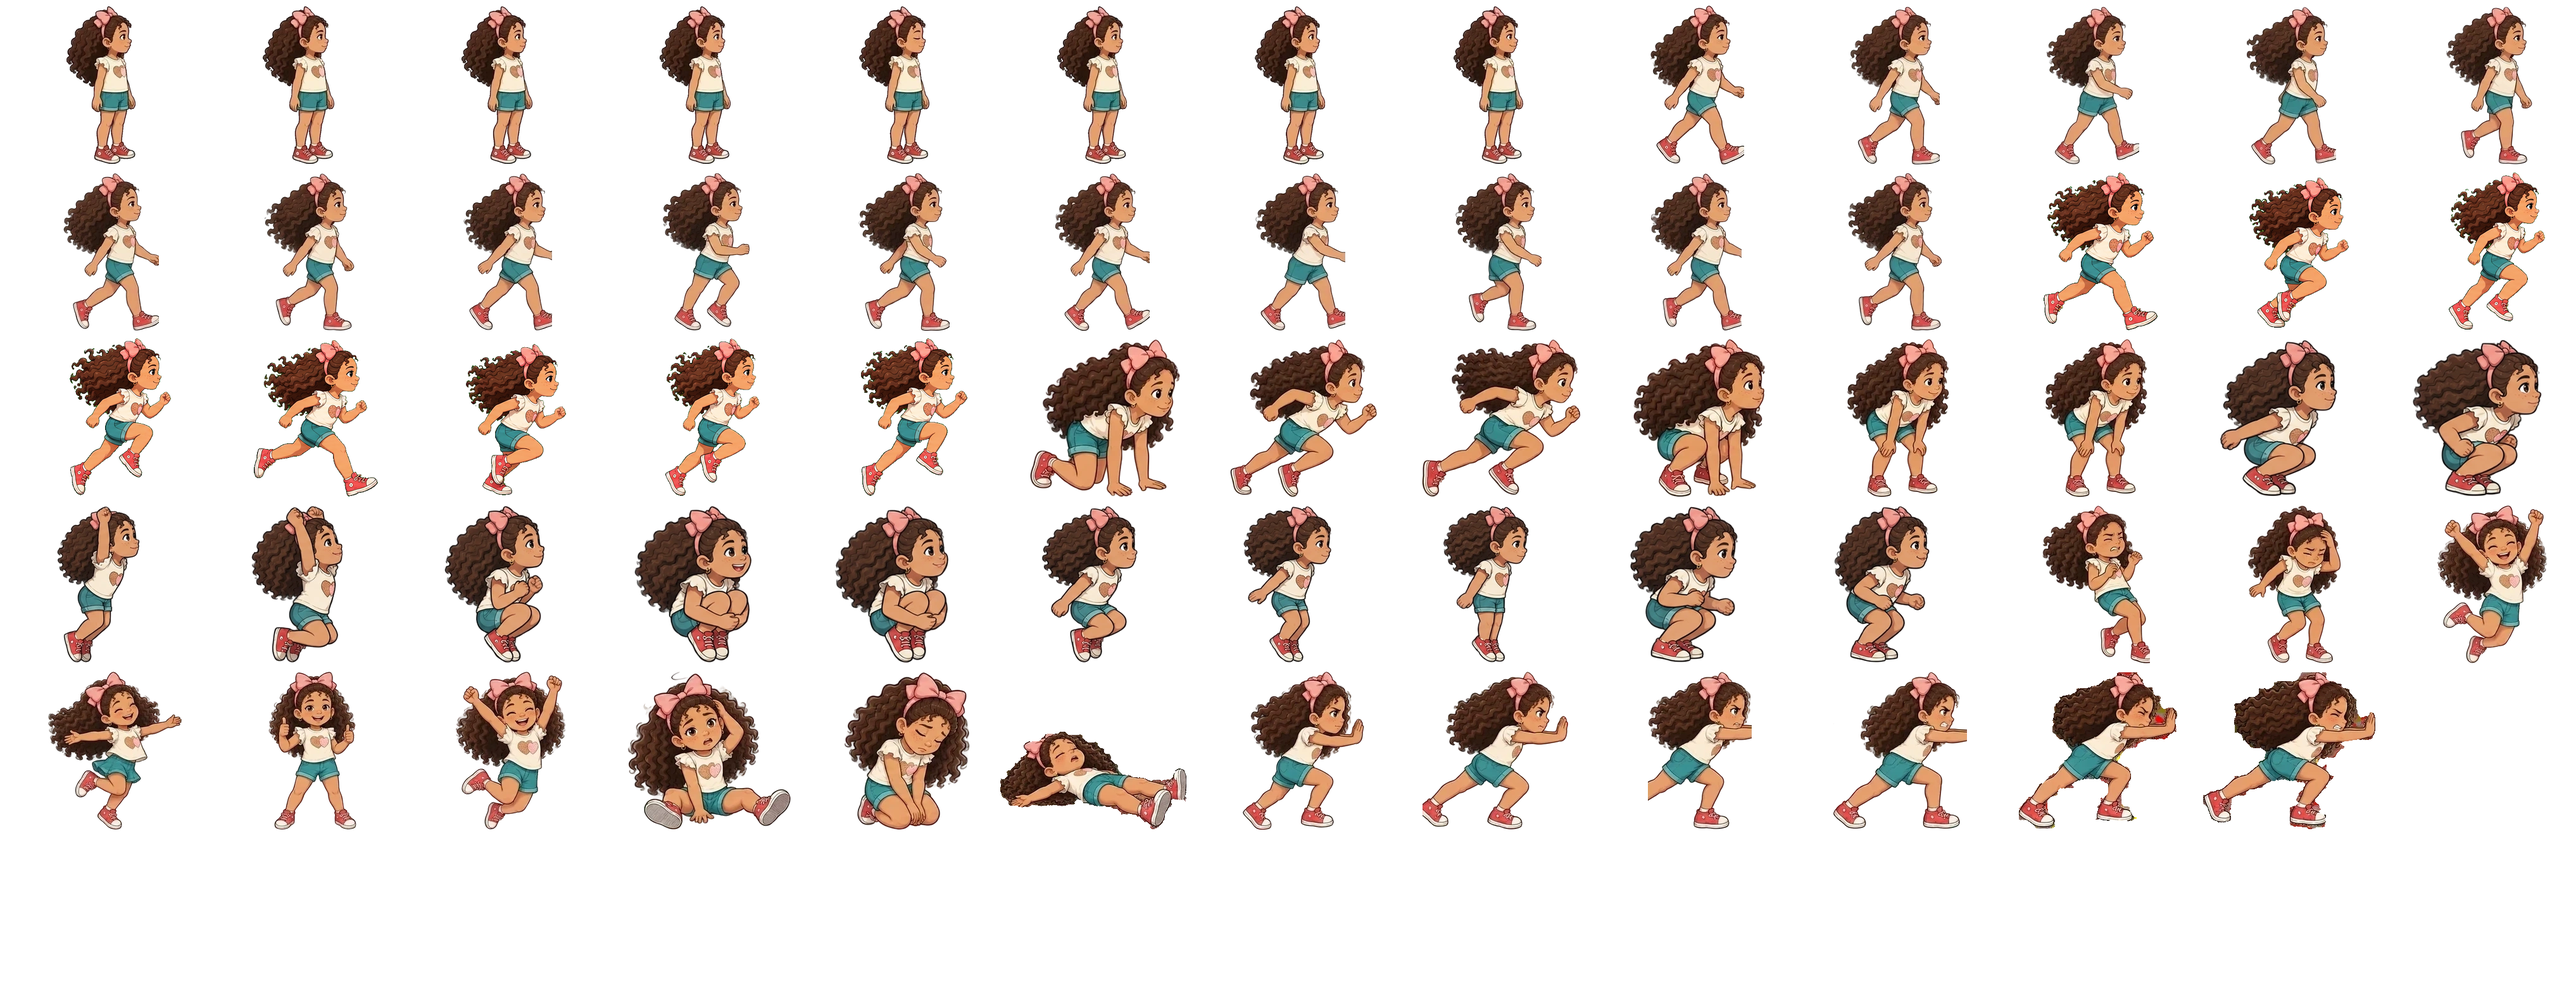
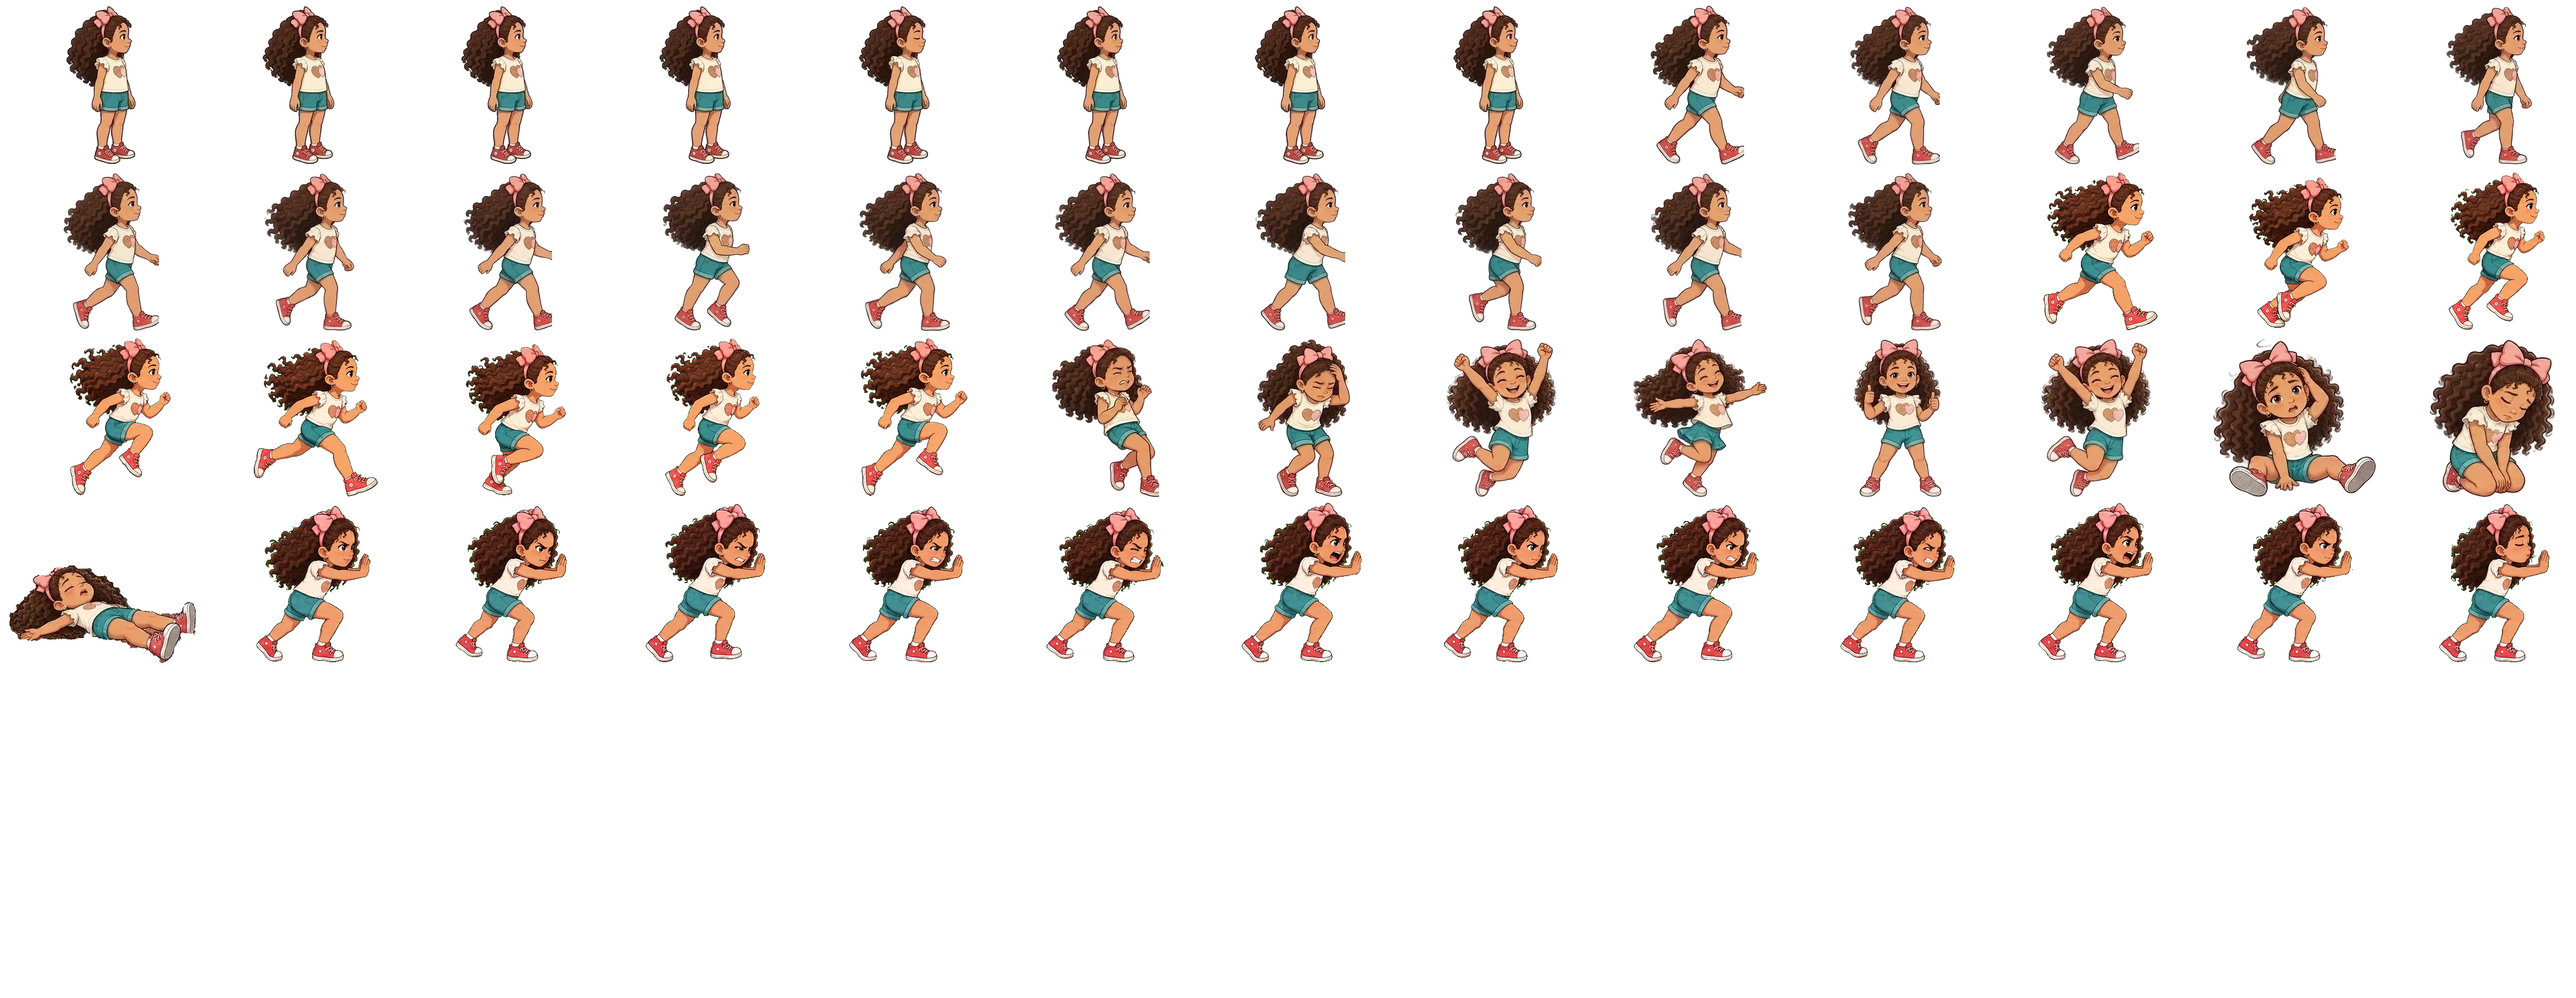
Angely sprite surgery per Angelo's review of every anim GIF
- start/stop REMOVED (code + sheet + gen): direct idle<->walk/run transitions
- jump/air/fall/land set REMOVED (code + sheet + gen): airborne uses idle
  until a new jump set is generated; land dust/landUntil timer kept
- push REPLACED: 12-frame ChatGPT cycle with animated effort faces
  (determined -> grit -> squeezed strain -> shout x2 -> breath out),
  extracted with the Voronoi ownership pipeline (figures overlapped in
  the sheet; exactly 1 piece per frame, faces verified on the strip)
- swim REPLACED: new 12-frame stroke cycle (alternating arms, flutter
  kick, breathes at frames 4 and 10)
- bow sheet rebuilt 1.25x: Angely content 202 -> 253 px so she no longer
  renders ~19% smaller than her base sprite (boomerang has the same
  203 px issue, flagged, untouched)
- angely layout now: idle 0-7, walk 8-22, run 23-30, hurt 31-32,
  celebrate 33-36, defeat 37-39, push 40-51 (h 248)
Validator PASS (352 anims, 1361 frames), tsc clean, harness MATCH:
push=12, swim=12, run=8, removed anims gone, push staged on player.

Changed region(s): [[0.0, 0.3416, 0.9988, 0.8384]]

diff --git a/src/entities/Player.ts b/src/entities/Player.ts
@@ -77,7 +77,6 @@ export class Player {
   private wasGrounded = true;
   private lastFallSpeed = 0;
   private landUntil = 0;
-  private moveAnimUntil = 0;
   private lastTrailAt = 0;
   private recoilVx = 0;
   private recoilUntil = 0;
@@ -201,7 +200,6 @@ export class Player {
         this.scene.vfx.landDust(this.x, body.bottom);
         if (this.lastFallSpeed > 380 && this.state === "normal") {
           this.landUntil = time + 120;
-          this.setAnim("angely", "land", true);
         }
       }
     }
@@ -416,10 +414,9 @@ export class Player {
     }
     const body = this.body;
     if (!this.grounded) {
-      const vy = body.velocity.y;
-      if (vy < -260) this.setAnim("angely", "jump");
-      else if (vy < 220) this.setAnim("angely", "air");
-      else this.setAnim("angely", "fall");
+      // Jump/air/fall sprite set removed at Angelo's direction (2026-10-22);
+      // airborne uses idle until a new jump set is generated.
+      this.setAnim("angely", "idle");
       return;
     }
     if (this.pushing && axis !== 0) {
@@ -428,19 +425,7 @@ export class Player {
     }
     if (time < this.landUntil && Math.abs(body.velocity.x) < 200) return;
     const speed = Math.abs(body.velocity.x);
-    const anim = this.sprite.anims.currentAnim?.key ?? "";
-    const pushing = axis !== 0 && Math.sign(axis) === Math.sign(body.velocity.x || axis);
-    if (!pushing && speed > 200 && !anim.endsWith(":stop")) {
-      this.moveAnimUntil = time + 220;
-      this.setAnim("angely", "stop", true);
-      return;
-    }
-    if (pushing && speed < 120 && (anim.endsWith(":idle") || anim.endsWith(":land"))) {
-      this.moveAnimUntil = time + 160;
-      this.setAnim("angely", "start", true);
-      return;
-    }
-    if (time < this.moveAnimUntil && (anim.endsWith(":stop") || anim.endsWith(":start"))) return;
+    // start/stop transition anims removed at Angelo's direction (2026-10-22).
     if (speed > 225) {
       this.setAnim("angely", "run");
       this.sprite.anims.timeScale = Phaser.Math.Clamp(speed / RUN_ANIM_SPEED, 0.7, 1.3);

diff --git a/src/assets/sprites.gen.ts b/src/assets/sprites.gen.ts
@@ -32,75 +32,33 @@ export const SPRITES = {
         "repeat": -1,
         "h": 248
       },
-      "start": {
-        "start": 31,
-        "end": 33,
-        "fps": 18,
-        "repeat": 0,
-        "h": 248
-      },
-      "stop": {
-        "start": 34,
-        "end": 36,
-        "fps": 14,
-        "repeat": 0,
-        "h": 243
-      },
-      "jump": {
-        "start": 37,
-        "end": 40,
-        "fps": 20,
-        "repeat": 0,
-        "h": 248
-      },
-      "air": {
-        "start": 41,
-        "end": 43,
-        "fps": 8,
-        "repeat": -1,
-        "h": 248
-      },
-      "fall": {
-        "start": 44,
-        "end": 46,
-        "fps": 8,
-        "repeat": -1,
-        "h": 248
-      },
-      "land": {
-        "start": 47,
-        "end": 48,
-        "fps": 12,
-        "repeat": 0,
-        "h": 248
-      },
       "hurt": {
-        "start": 49,
-        "end": 50,
+        "start": 31,
+        "end": 32,
         "fps": 10,
         "repeat": 0,
         "h": 204
       },
       "celebrate": {
-        "start": 51,
-        "end": 54,
+        "start": 33,
+        "end": 36,
         "fps": 7,
         "repeat": -1,
         "h": 222
       },
       "defeat": {
-        "start": 55,
-        "end": 57,
+        "start": 37,
+        "end": 39,
         "fps": 5,
         "repeat": 0,
         "h": 180
       },
       "push": {
-        "start": 58,
-        "end": 63,
+        "start": 40,
+        "end": 51,
         "fps": 9,
         "repeat": -1,
-        "h": 220
+        "h": 248
       }
     }
   },
@@ -121,8 +79,8 @@ export const SPRITES = {
   },
   "angely_bow": {
     "file": "assets/runtime/angely_bow.webp",
-    "frameWidth": 224,
-    "frameHeight": 222,
+    "frameWidth": 280,
+    "frameHeight": 278,
     "originX": 0.3886,
     "originY": 0.982,
     "bodyHeight": 214,
@@ -132,7 +90,7 @@ export const SPRITES = {
         "end": 11,
         "fps": 40,
         "repeat": 0,
-        "h": 210
+        "h": 262
       }
     }
   },
